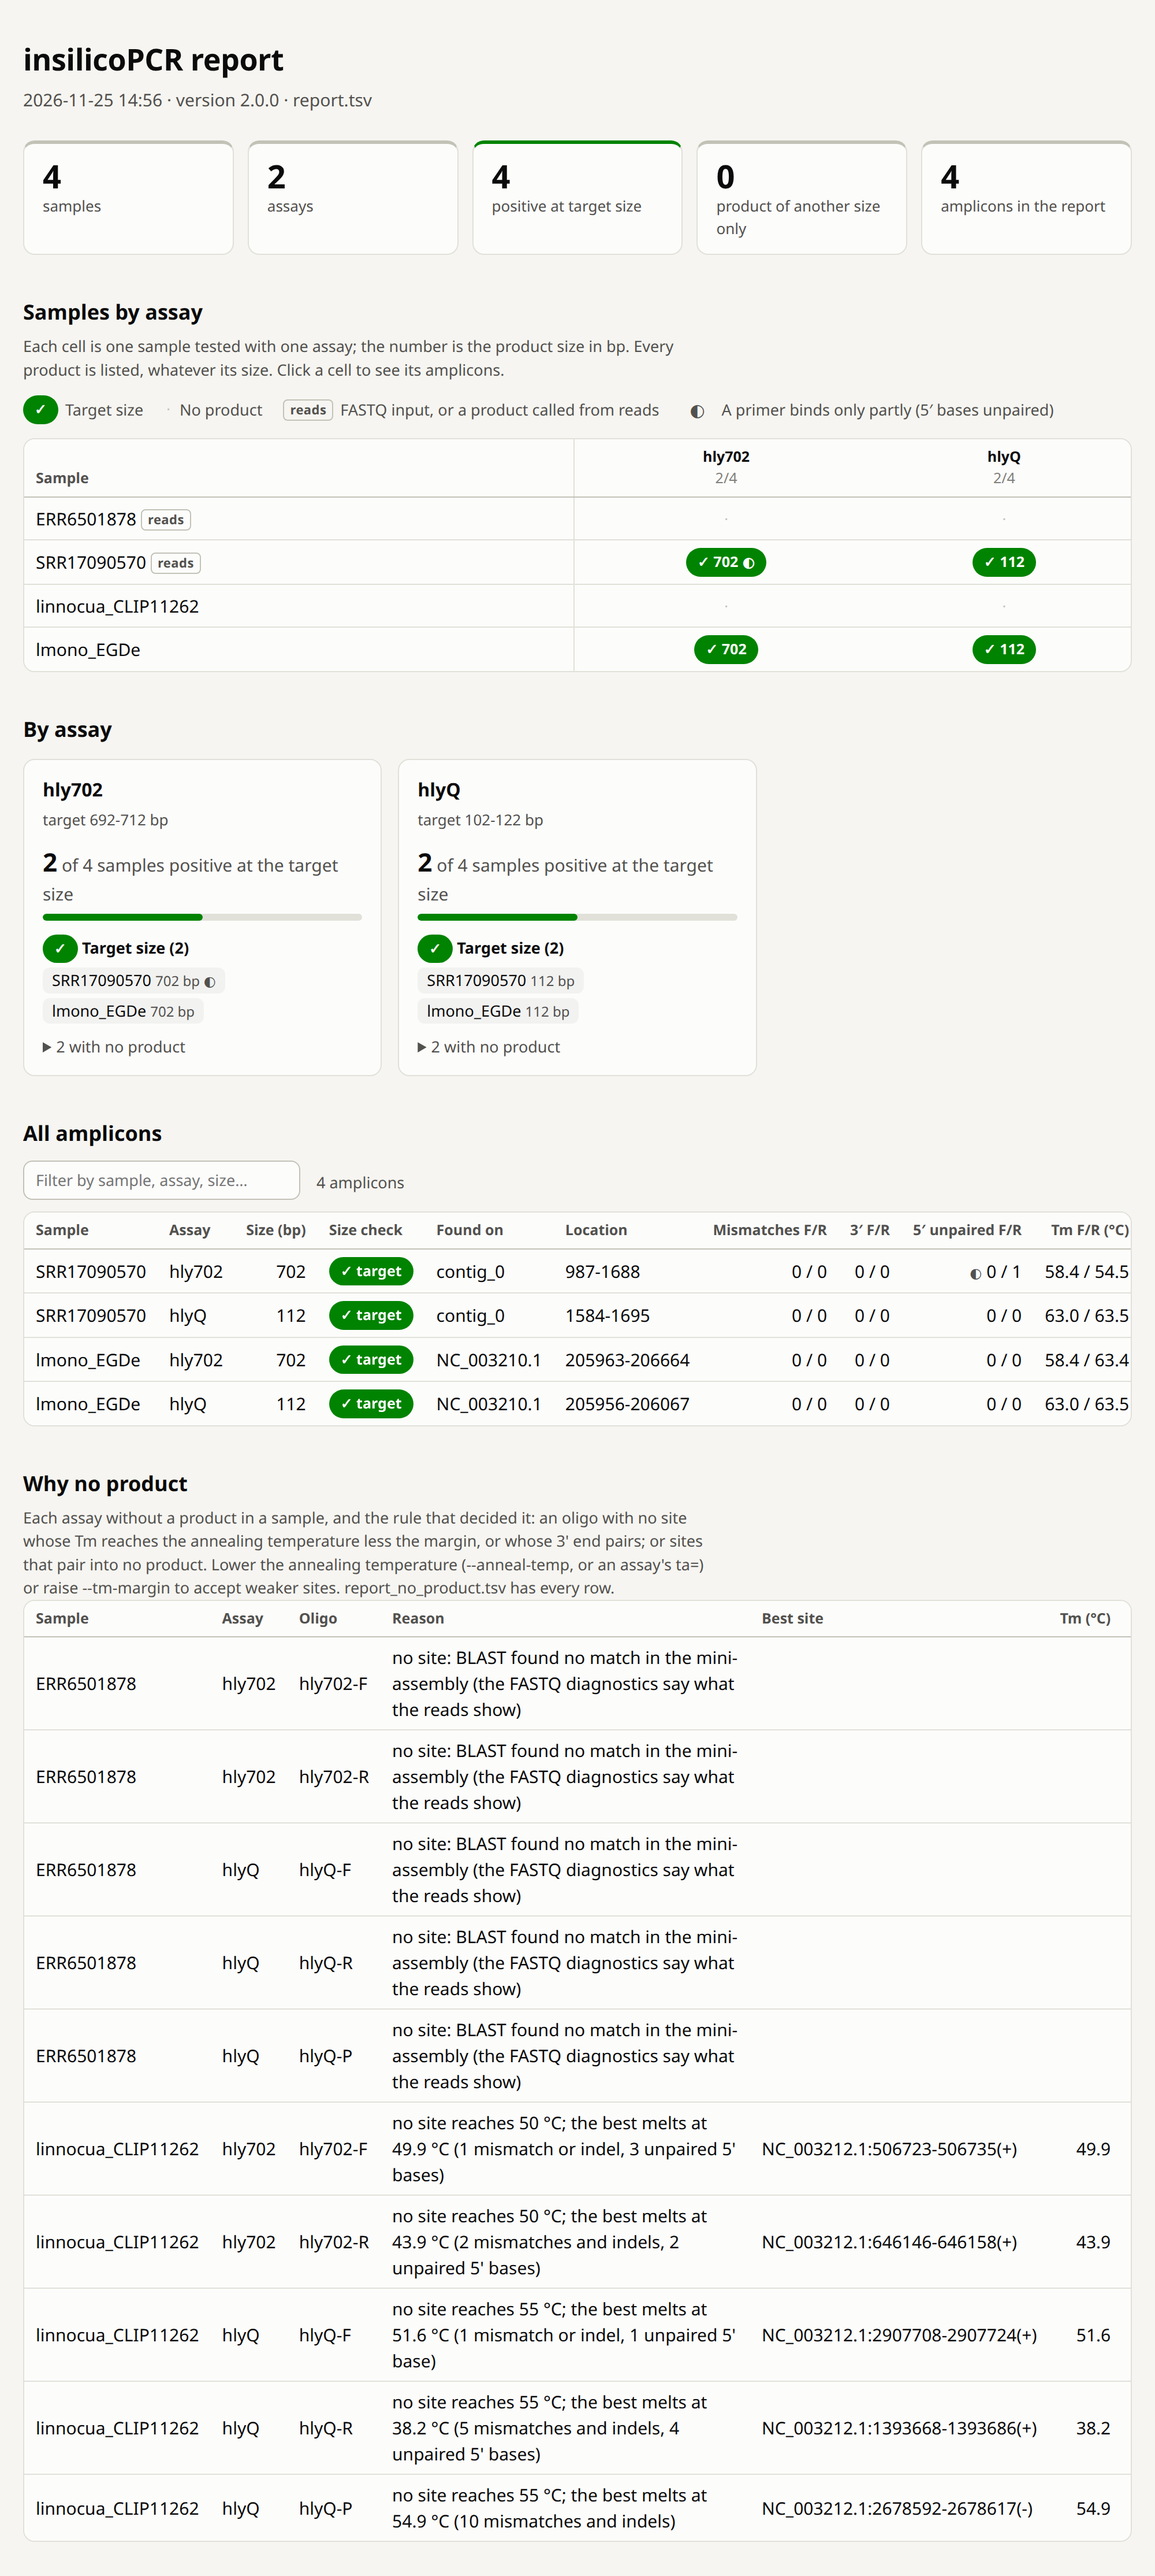
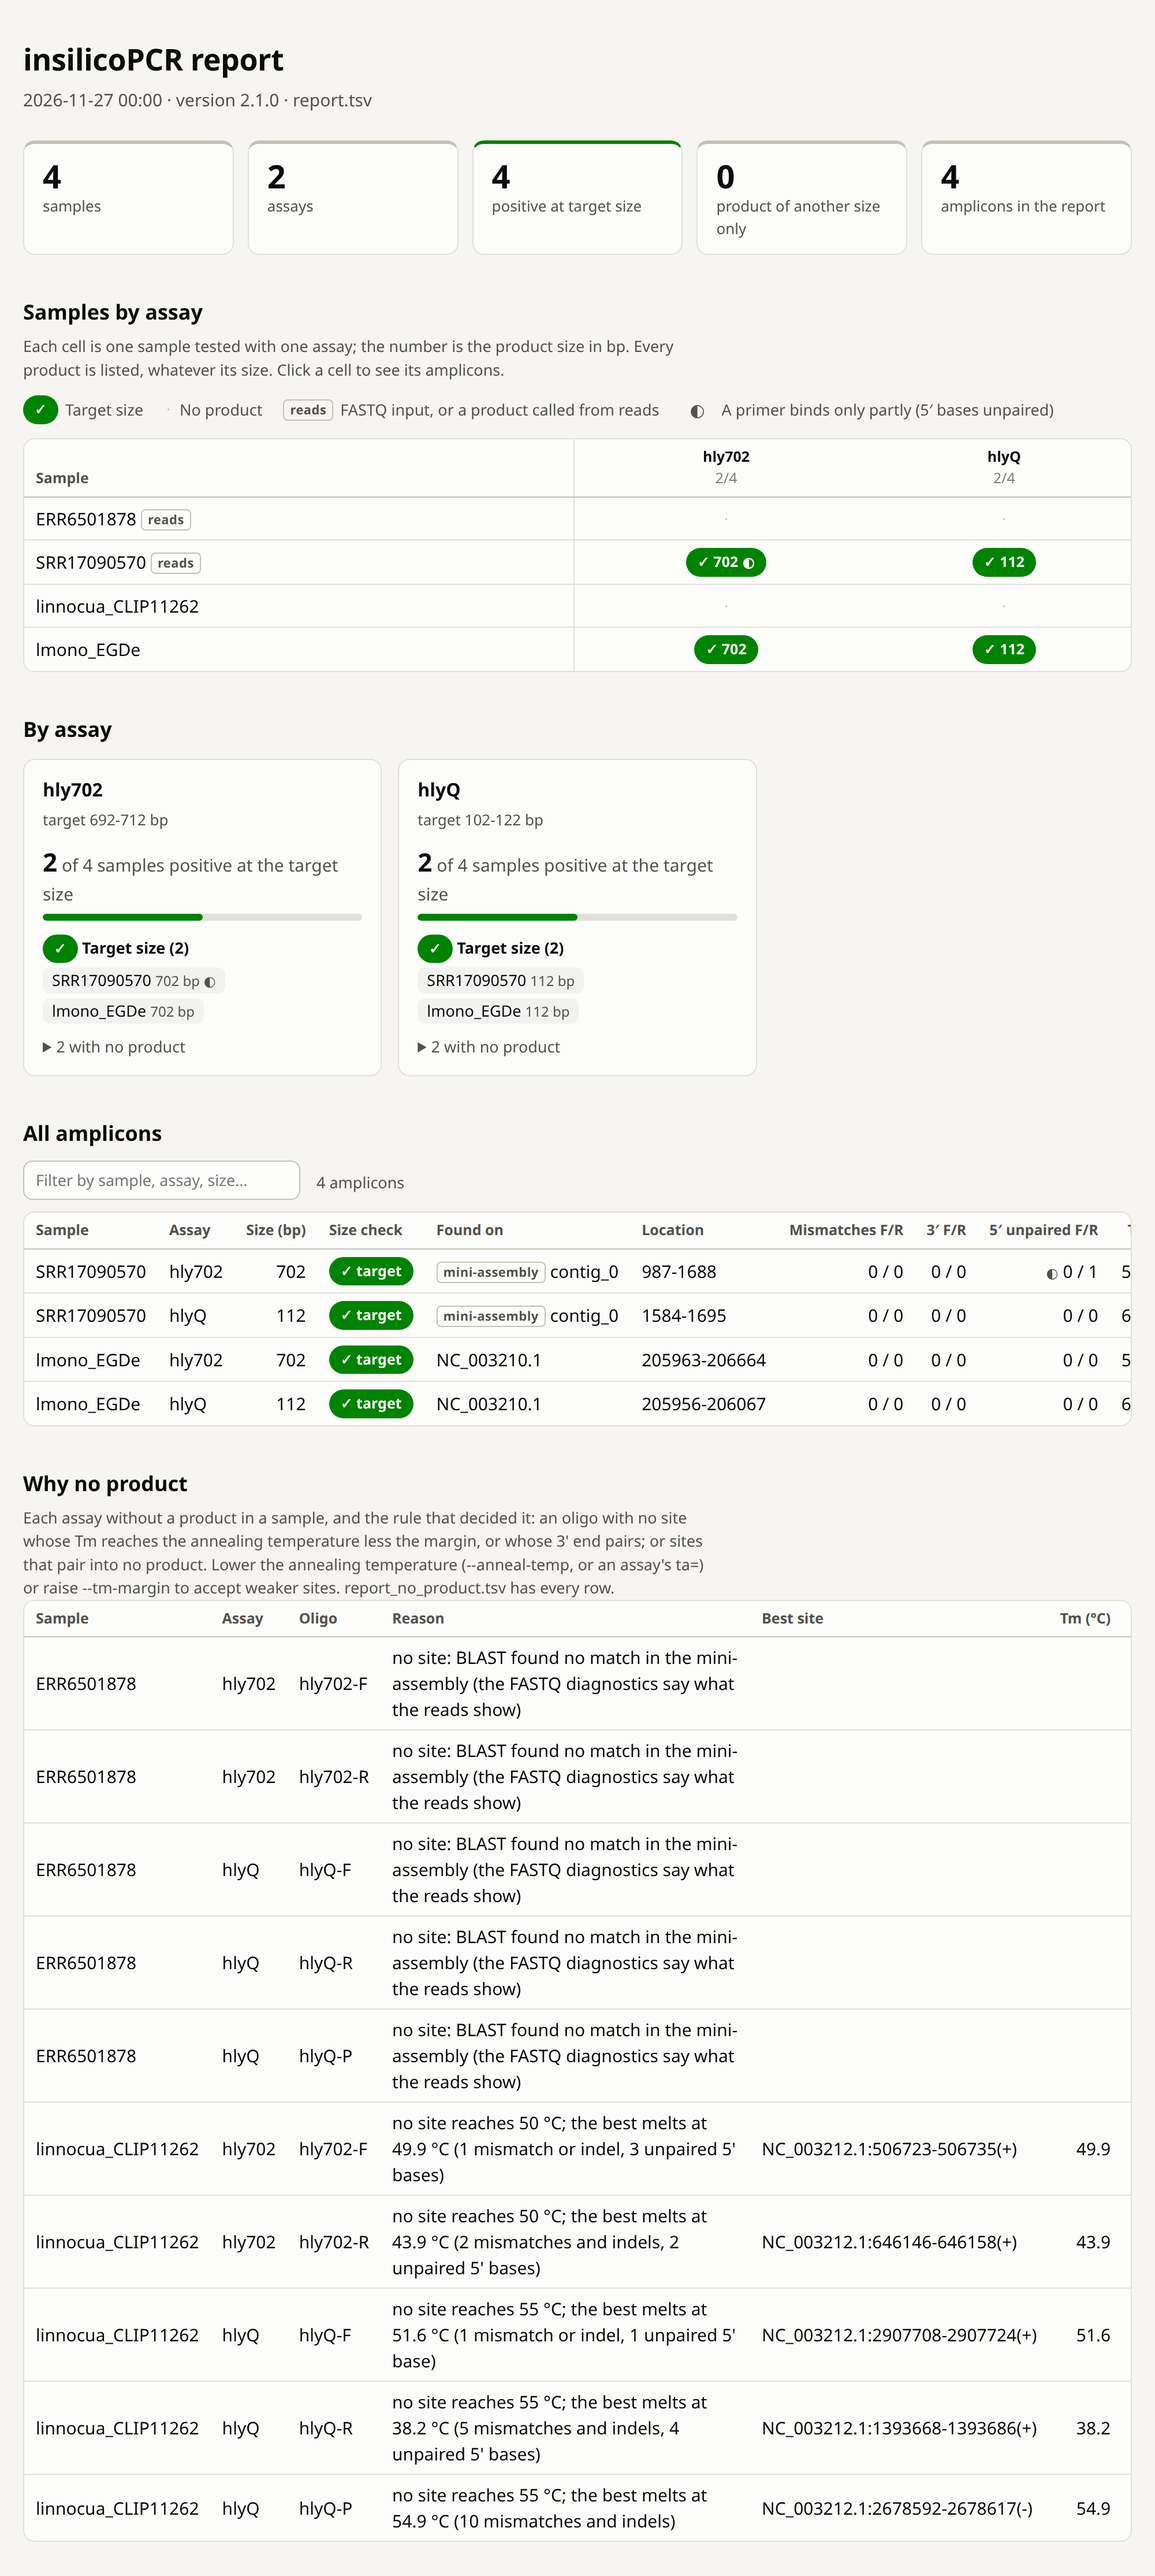
docs: bring the README and wiki up to 2.1.0
The tutorial's HTML report and its picture regenerated with 2.1.0 from /data/tutorial (the mini-assembly
tag); its TSV reports and gel are the same. The README says what the gel's hover text tells.

diff --git a/docs/examples/tutorial/report.html b/docs/examples/tutorial/report.html
@@ -108,7 +108,7 @@ details .names { margin-top: 6px; }
 <main>
 <header>
 <h1>insilicoPCR report</h1>
-<p class="sub">2026-11-25 14:56 · version 2.0.0 · report.tsv</p>
+<p class="sub">2026-11-27 00:00 · version 2.1.0 · report.tsv</p>
 </header>
 <section class="tiles" aria-label="Summary">
 <div class="tile"><span class="n">4</span><span class="l">samples</span></div>
@@ -186,8 +186,8 @@ details .names { margin-top: 6px; }
 <section>
 <h2>Run details</h2>
 <dl class="details">
-<dt>Date</dt><dd>2026-11-25 14:56</dd>
-<dt>insilicoPCR version</dt><dd>2.0.0</dd>
+<dt>Date</dt><dd>2026-11-27 00:00</dd>
+<dt>insilicoPCR version</dt><dd>2.1.0</dd>
 <dt>Input</dt><dd>/data/tutorial/tutorial_input</dd>
 <dt>Primer file</dt><dd>/data/tutorial/listeria_assays.fasta</dd>
 <dt>Output folder</dt><dd>/data/tutorial/tutorial_results</dd>
@@ -201,7 +201,7 @@ details .names { margin-top: 6px; }
 <dt>Read-level calls (FASTQ, --read-min-fraction)</dt><dd>at least 2 reads or read pairs and 30% of informative reads</dd>
 <dt>Read extension (FASTQ, --read-extension)</dt><dd>unreported: for assays in no contig and in no read, when reads carry both primers, up to 150 reads per primer are extended through the reads baited in rounds (Tadpole mode=extend k=31 branchmult1=1 branchmult2=1 mincountextend=2); a product needs at least 2 extended reads seeded from one primer, and read pairs holding each of its windows (the largest window of 100, 150, ... bases whose median is held by 10 pairs; none held by fewer than 2 or 10% of the median), and no repeat that long with another copy in the sample</dd>
 <dt>Memory (--memory)</dt><dd>automatic: three quarters of the memory insilicoPCR leaves free on the computer (a job&#39;s limit on a cluster), at least half of its own heap</dd>
-<dt>Tools</dt><dd>BLAST+ 2.17.0, BBTools 40.04, Java 26.0.2.1+1 (Eclipse Adoptium)</dd>
+<dt>Tools</dt><dd>BLAST+ 2.17.0, BBTools 40.05, Java 26.0.2.1+1 (Eclipse Adoptium)</dd>
 </dl>
 <p class="hint">This page shows the rows of <code>report.tsv</code>, in the same folder. insilicoPCR reports every product a PCR would amplify, whatever its size; the size check compares each product with the sizes declared in the primer file and removes nothing.</p>
 </section>

diff --git a/README.md b/README.md
@@ -39,7 +39,7 @@
 - **Sequence rules and one Tm.** A product is reported when its primer sites melt at the annealing temperature (`--anneal-temp`, default 60 °C, or an assay's own `ta=` in the primer file) less `--tm-margin` (default 5 °C) or above, face each other and lie within the size limits. Nothing models primer dimers, hairpins, efficiency or multiplex competition. The cases where it can miss a product are on [Limitations](https://github.com/duceppemo/insilicoPCR/wiki/Limitations).
 - **Every product is reported, whatever its size**, as a real PCR would amplify it. Declare the size an assay is designed to give and each product is labelled `target`, `other` or `unexpected`.
 - **Faulty input is named, not skipped.** Every file is checked before the run: an empty library, a download cut short or a malformed read leaves its sample out with a warning, and the other samples are run.
-- **Reports you can read.** A self-contained HTML report, a TSV table with each site's Tm and mismatches, a table of the assays that gave no product and why, and a synthetic gel.
+- **Reports you can read.** A self-contained HTML report, a TSV table with each site's Tm and mismatches, a table of the assays that gave no product and why, and a synthetic gel whose bands, on hover, say how each primer and probe binds and what the product was called on.
 - **Nothing to install.** One portable ZIP for Windows or Linux holds the desktop app, the command line, Java, BBTools and BLAST+. On Linux, conda installs it too, from Bioconda.
 - **Works with [primer-finder](https://github.com/duceppemo/primer-finder)**, which designs selective (q)PCR assays and writes primer files in this format.
 

diff --git a/docs/wiki/Tutorial-Mixed-PCR-qPCR.md b/docs/wiki/Tutorial-Mixed-PCR-qPCR.md
@@ -6,7 +6,7 @@ This tutorial walks through a complete, realistic insilicoPCR run using **public
 - a **genome assembly** (FASTA) and **raw Illumina reads** (FASTQ) as inputs,
 - a **positive control** (*Listeria monocytogenes*) and a **negative control** (*Listeria innocua*, the classic *hly*-negative near-neighbor used for exclusivity testing).
 
-The steps below use the command line from an extracted portable release; [section 7](#7-the-same-run-in-the-gui) does the same run in the GUI. Every table and picture on this page comes from running exactly these steps with version 2.0.0, and the primer file and the reports of that run are in the repository under [`docs/examples/tutorial/`](https://github.com/duceppemo/insilicoPCR/tree/master/docs/examples/tutorial).
+The steps below use the command line from an extracted portable release; [section 7](#7-the-same-run-in-the-gui) does the same run in the GUI. Every table and picture on this page comes from running exactly these steps with version 2.1.0 (the window of section 7 with 2.0.0, whose window is the same), and the primer file and the reports of that run are in the repository under [`docs/examples/tutorial/`](https://github.com/duceppemo/insilicoPCR/tree/master/docs/examples/tutorial).
 
 ## 1. The assays
 
